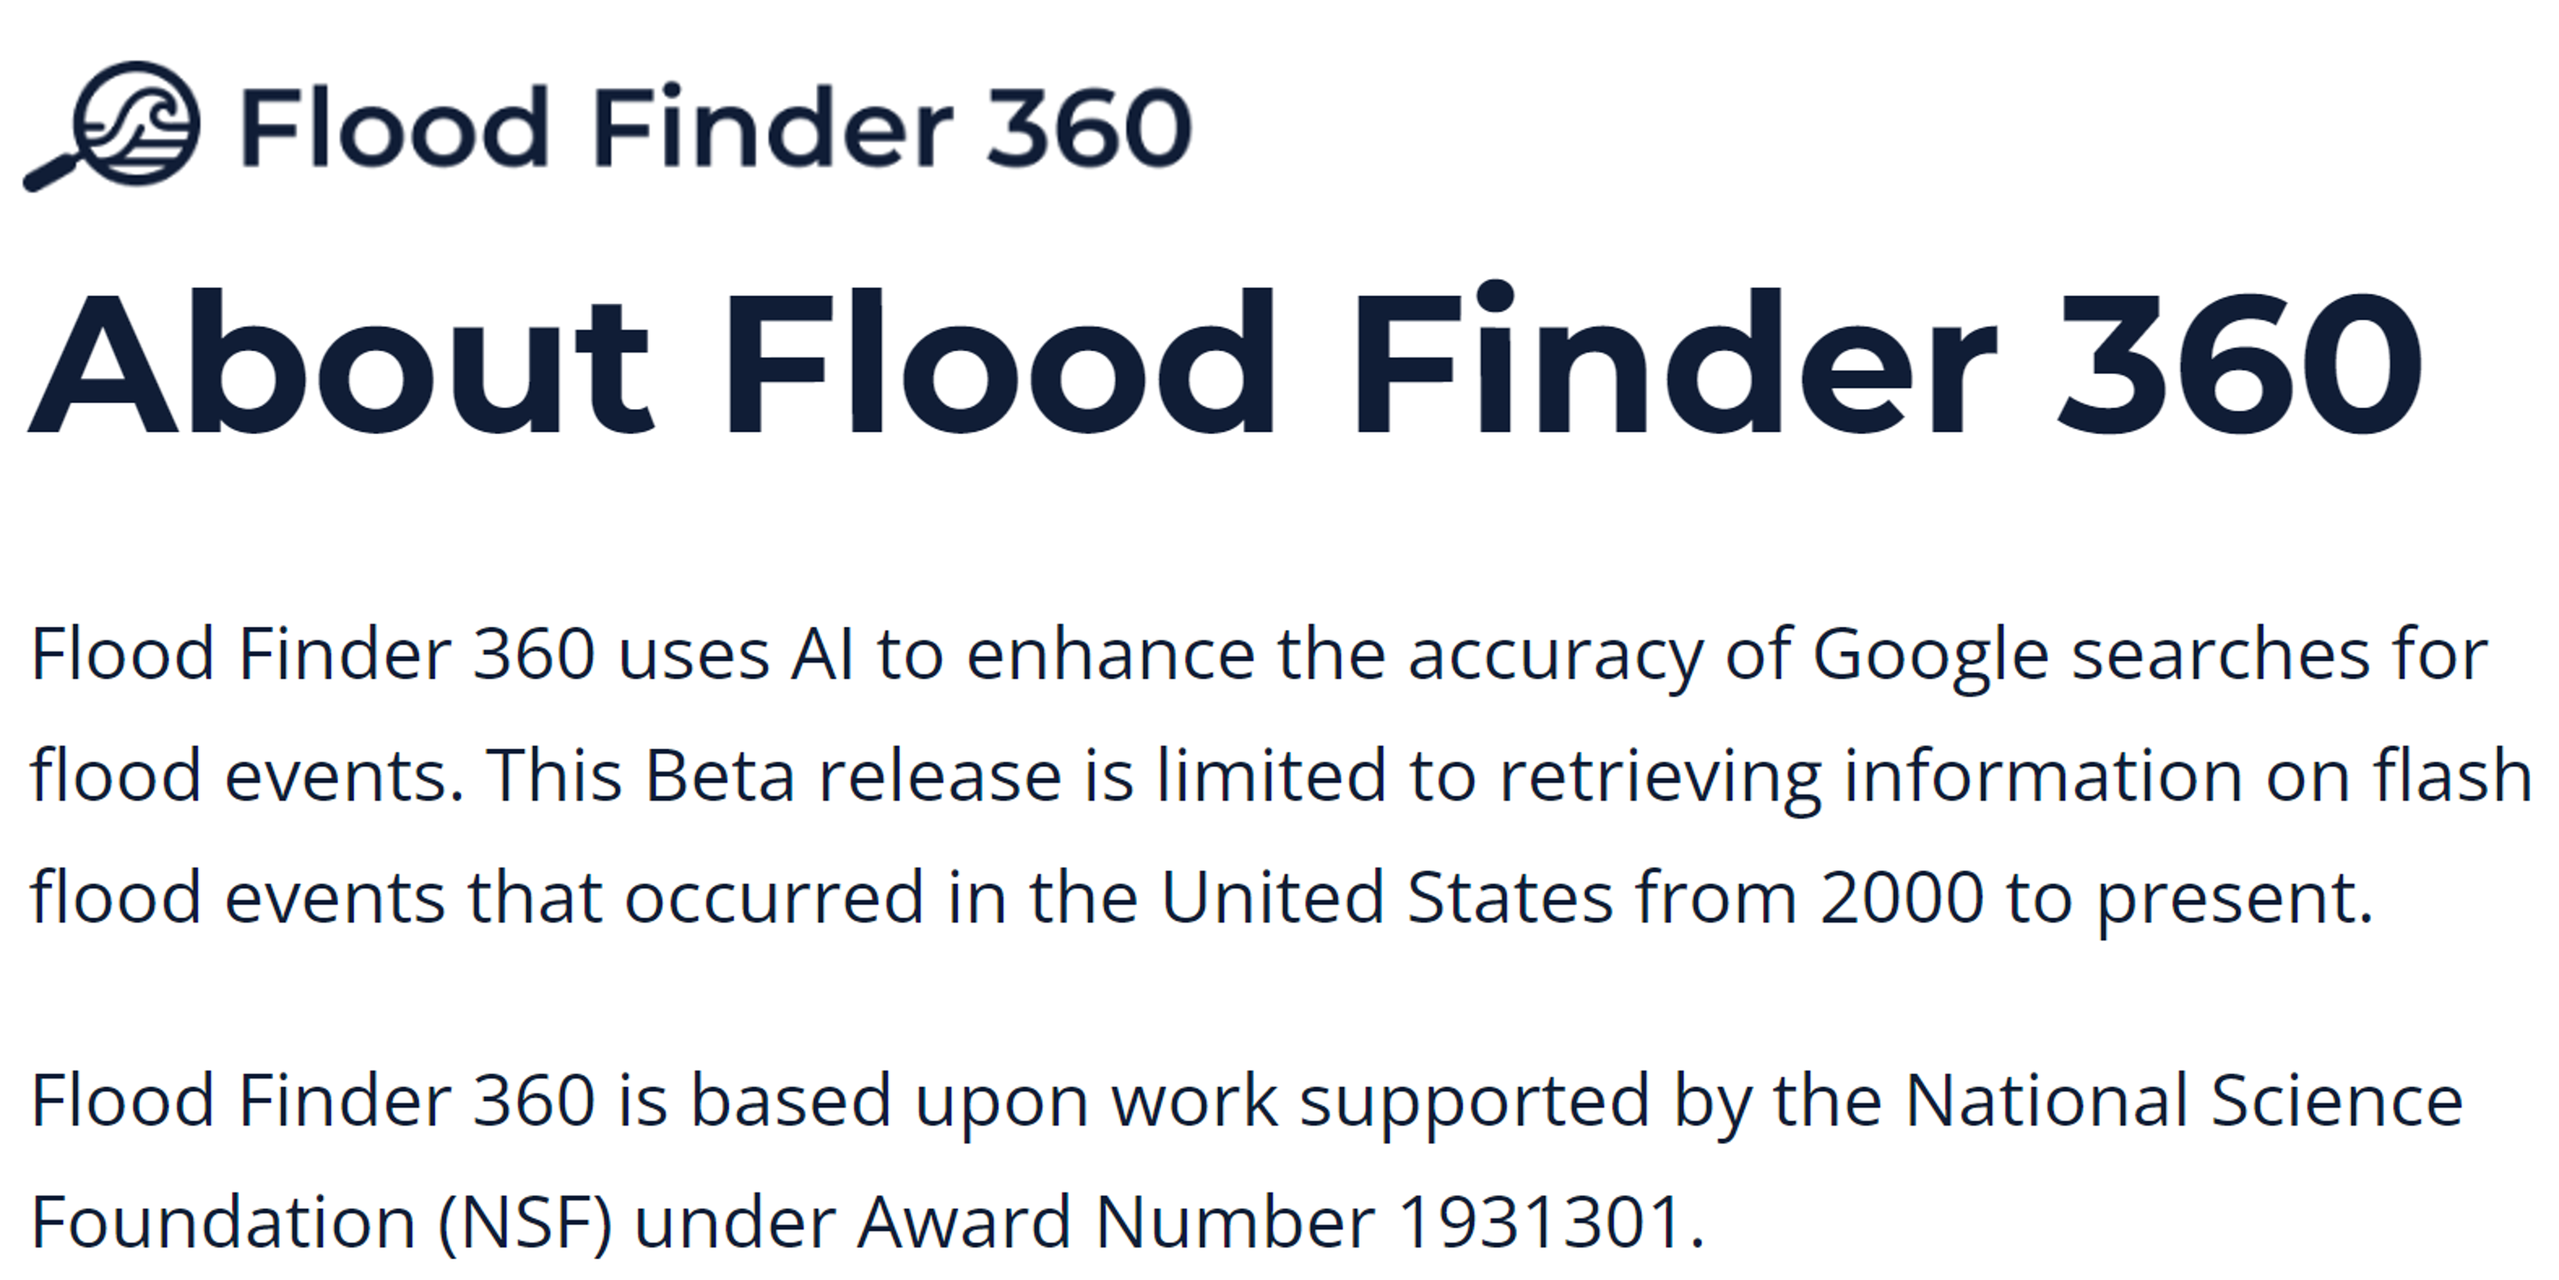
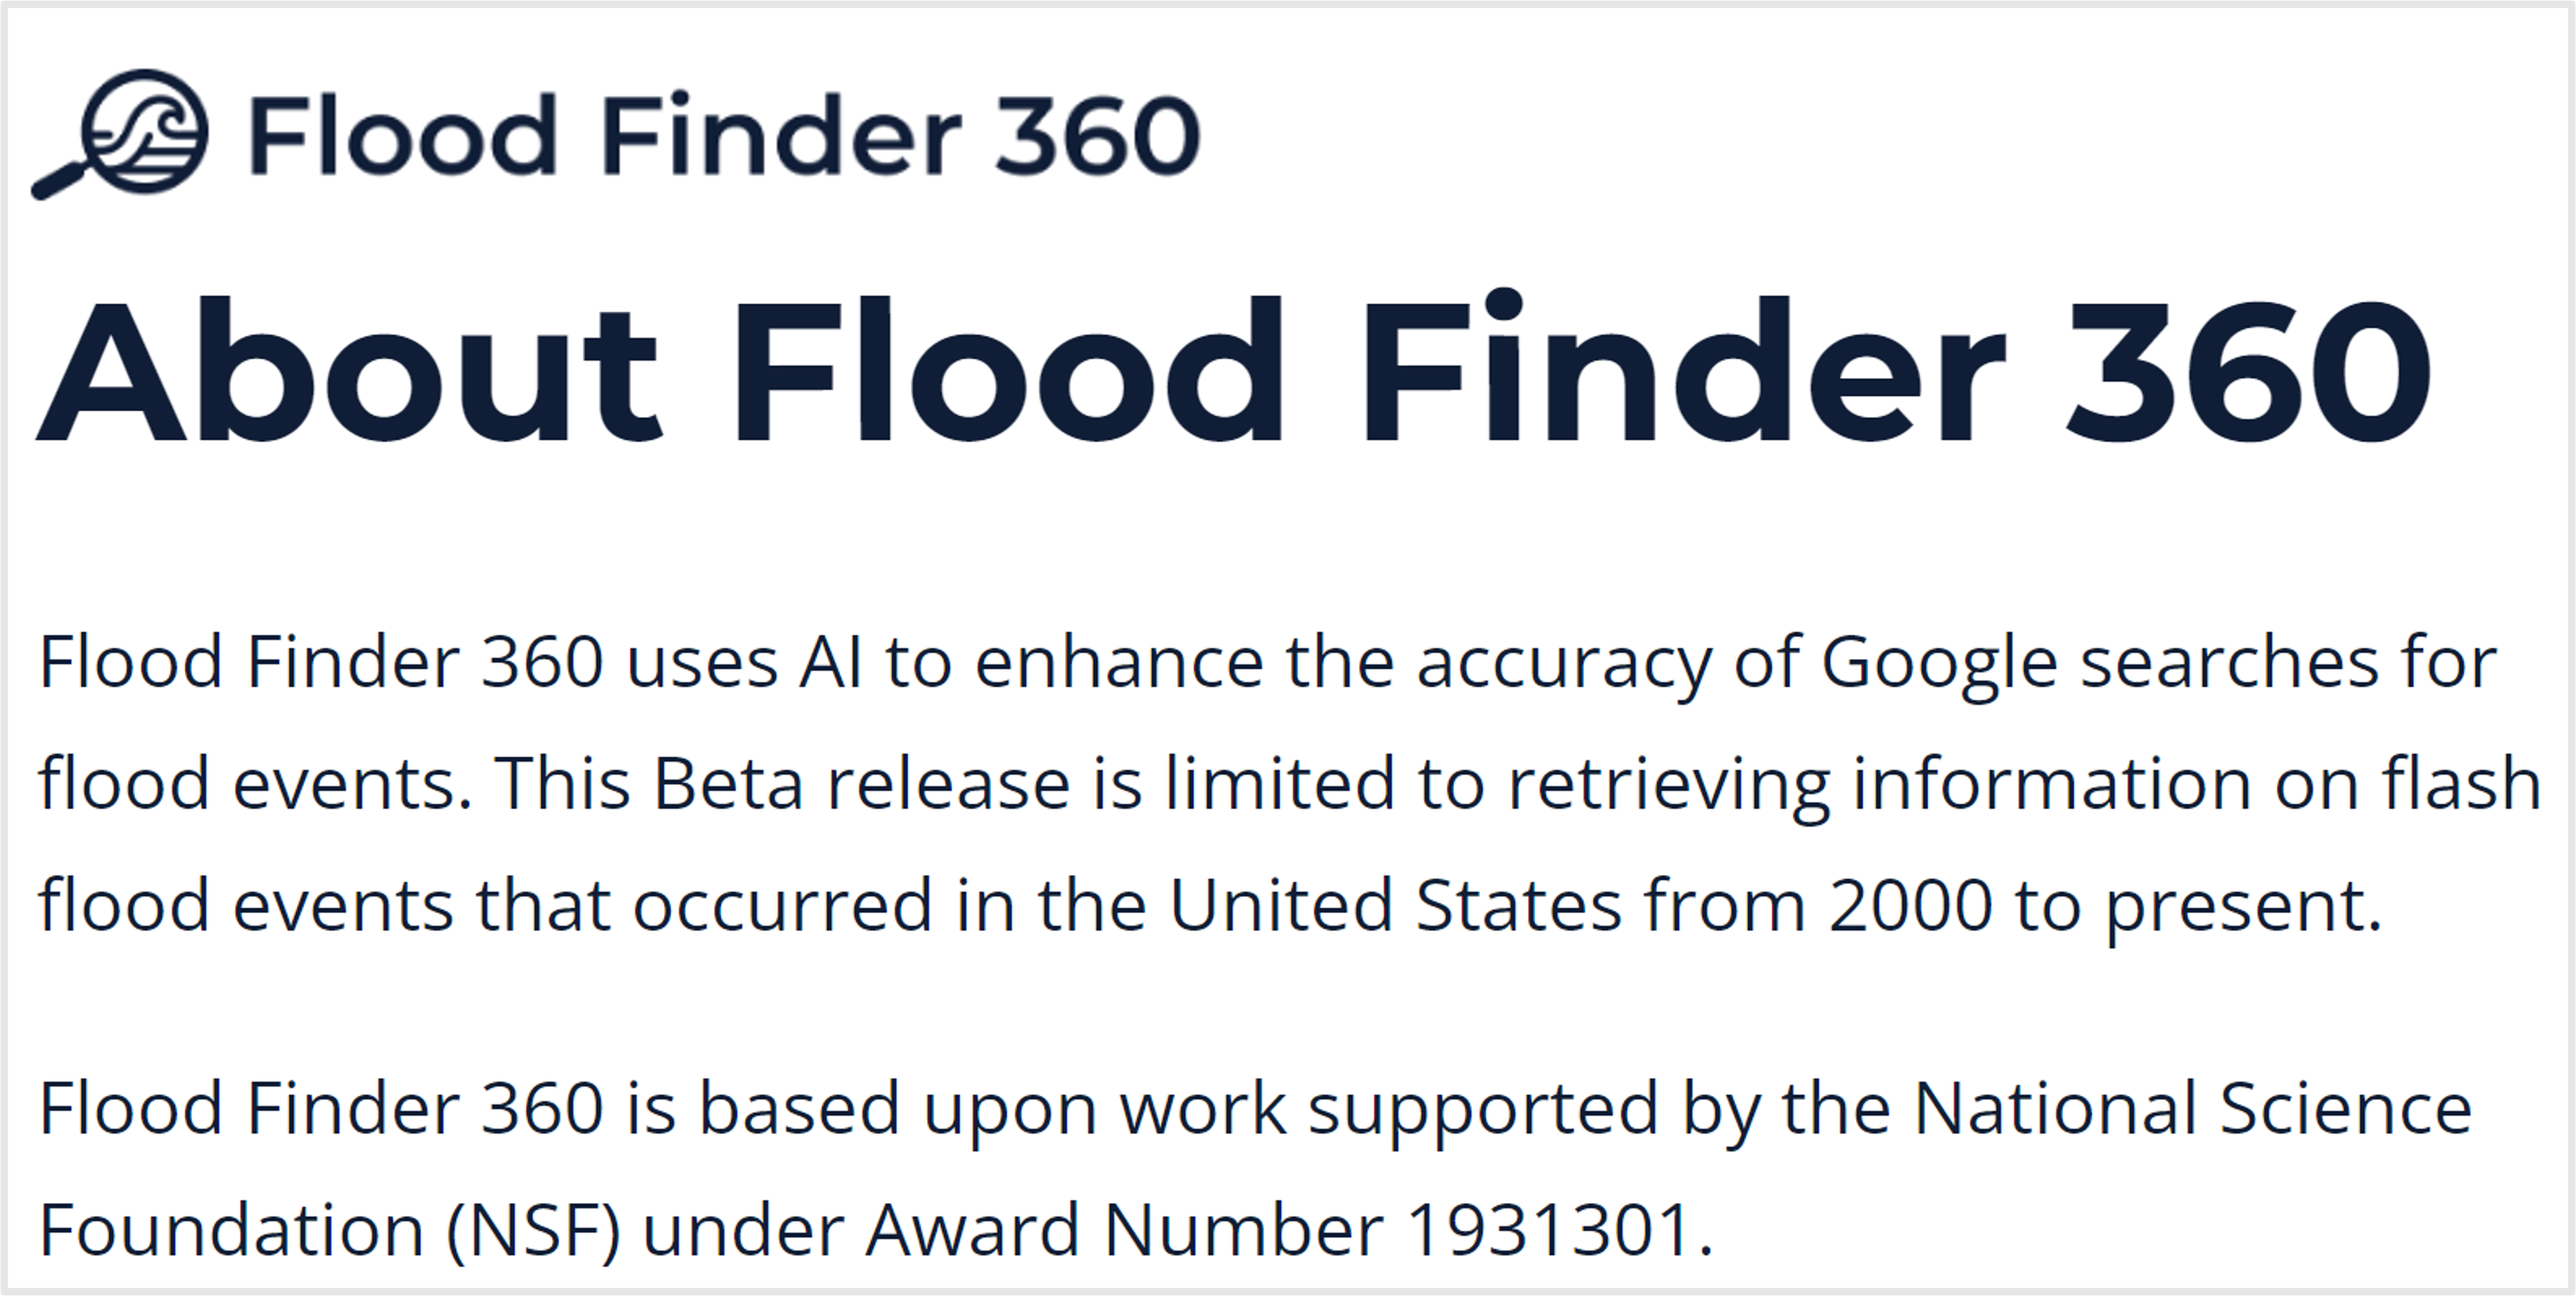
Software Picture

diff --git a/software.html b/software.html
@@ -264,7 +264,7 @@
     <hr>
     <section id="bio">
         <h2><a href="https://floodfinder360.org/" target="_blank">1.  Flood Finder 360</a></h2>
-        <img src="software_1.png" alt="Project" width="500" height="250" style="border: 1px solid gray;">
+        <img src="software_1.png" alt="Project" width="500" height="250">
         <p class="bio-text">
             FloodFinder360 is an innovative software designed for analyzing historical flash flood events in the U.S. It utilizes advanced NLP and Machine Learning algorithms to enhance information retrieval, achieving a 63% performance improvement over traditional search engines. This tool aids in understanding disaster patterns and developing proactive mitigation strategies. This tool is available <a href="https://floodfinder360.org/">here</a>
         </p>
@@ -272,7 +272,7 @@
         <hr>
         
         <h2>2. Platform for Resilience Inference Measurement and Enhancement (PRIME)</h2>
-        <img src="software_2.png" alt="Project" width="600" height="250" border="1">
+        <img src="software_2.png" alt="Project" width="600" height="250">
         <p class="bio-text">
             PRIME is a cutting-edge platform on CyberGISx that employs machine learning for an objective, data-driven index to assess community resilience against disasters. It integrates socio-economic factors, offering accurate regional resilience analysis and highlighting crucial socio-economic influencers. This tool sets new benchmarks in disaster preparedness, aiding in effective response strategies and fostering community resilience.        
         </p>
